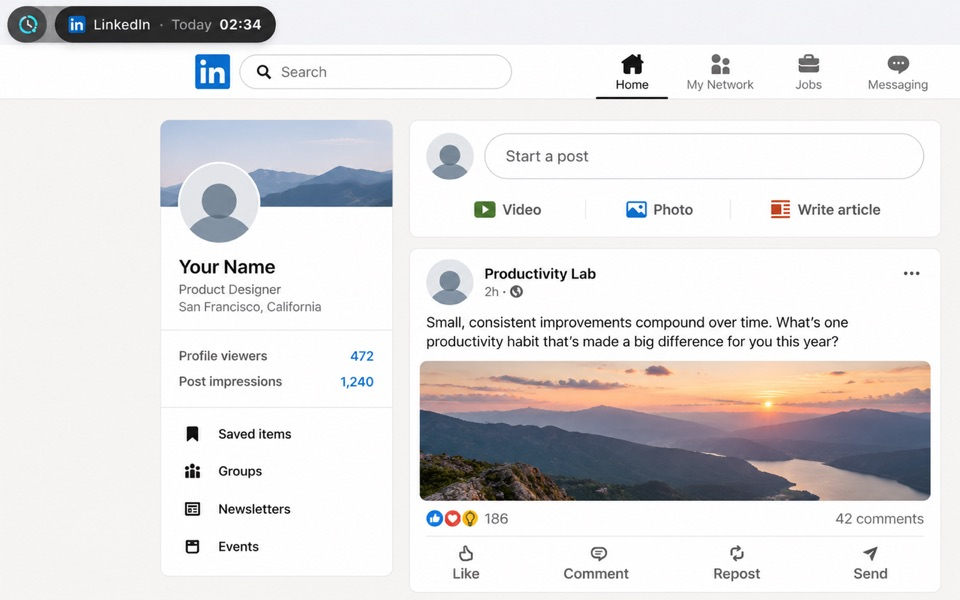
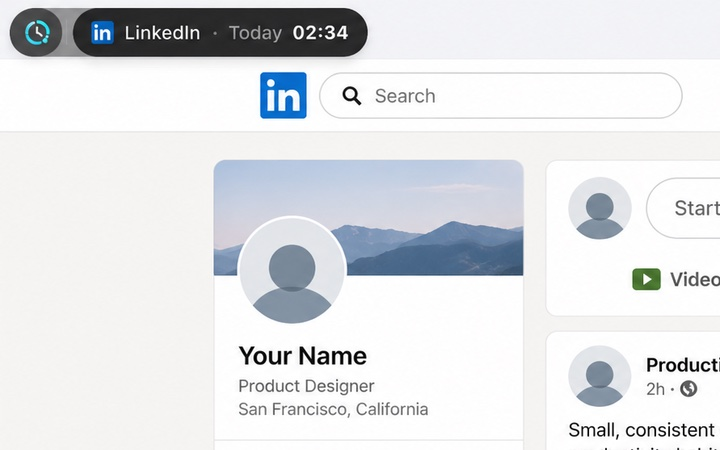
FocusTicker screenshot: crop to the timer pill
Cropped from the original 1280x800 Chrome Web Store screenshot (the old file was a 960x600
downscale of the whole LinkedIn page), so the 720x450 crop is still 2x at card size.
Alt text describes the pill floating over LinkedIn.

diff --git a/src/content.js b/src/content.js
@@ -37,7 +37,7 @@ export const content = {
       key: 'KeyF',
       short: 'focusticker',
       title: 'FocusTicker',
-      image: { src: `${base}shots/focusticker.jpg`, alt: 'FocusTicker’s timer pill in the corner of LinkedIn, showing 02:34 today' },
+      image: { src: `${base}shots/focusticker.jpg`, alt: 'FocusTicker’s timer pill floating over the top corner of LinkedIn, showing 02:34 spent on LinkedIn today' },
       // 10 users, 5.0★ from 3 ratings on the listing, Oct 14 2026
       status: 'live on the Chrome Web Store · 10 users · 5.0★',
       body: 'A Chrome extension that puts a small live timer on LinkedIn, Reddit, and other time sinks, so you see how long you’ve been scrolling instead of getting blocked.',

diff --git a/src/style.css b/src/style.css
@@ -353,6 +353,7 @@ kbd {
   width: min(42%, 17rem);
   aspect-ratio: 16 / 10;
   object-fit: cover;
+  object-position: top left; /* the timer pill lives in that corner */
   margin: 0 1.6rem 0.5rem 1rem; /* right: room for the close button */
   border-radius: 6px;
   box-shadow: 0 0 0 1px #0000001a;
@@ -949,6 +950,7 @@ kbd {
   border-radius: 12px 12px 0 0;
   aspect-ratio: 16 / 10;
   object-fit: cover;
+  object-position: top left;
   background: #ffffff0a;
 }
 
